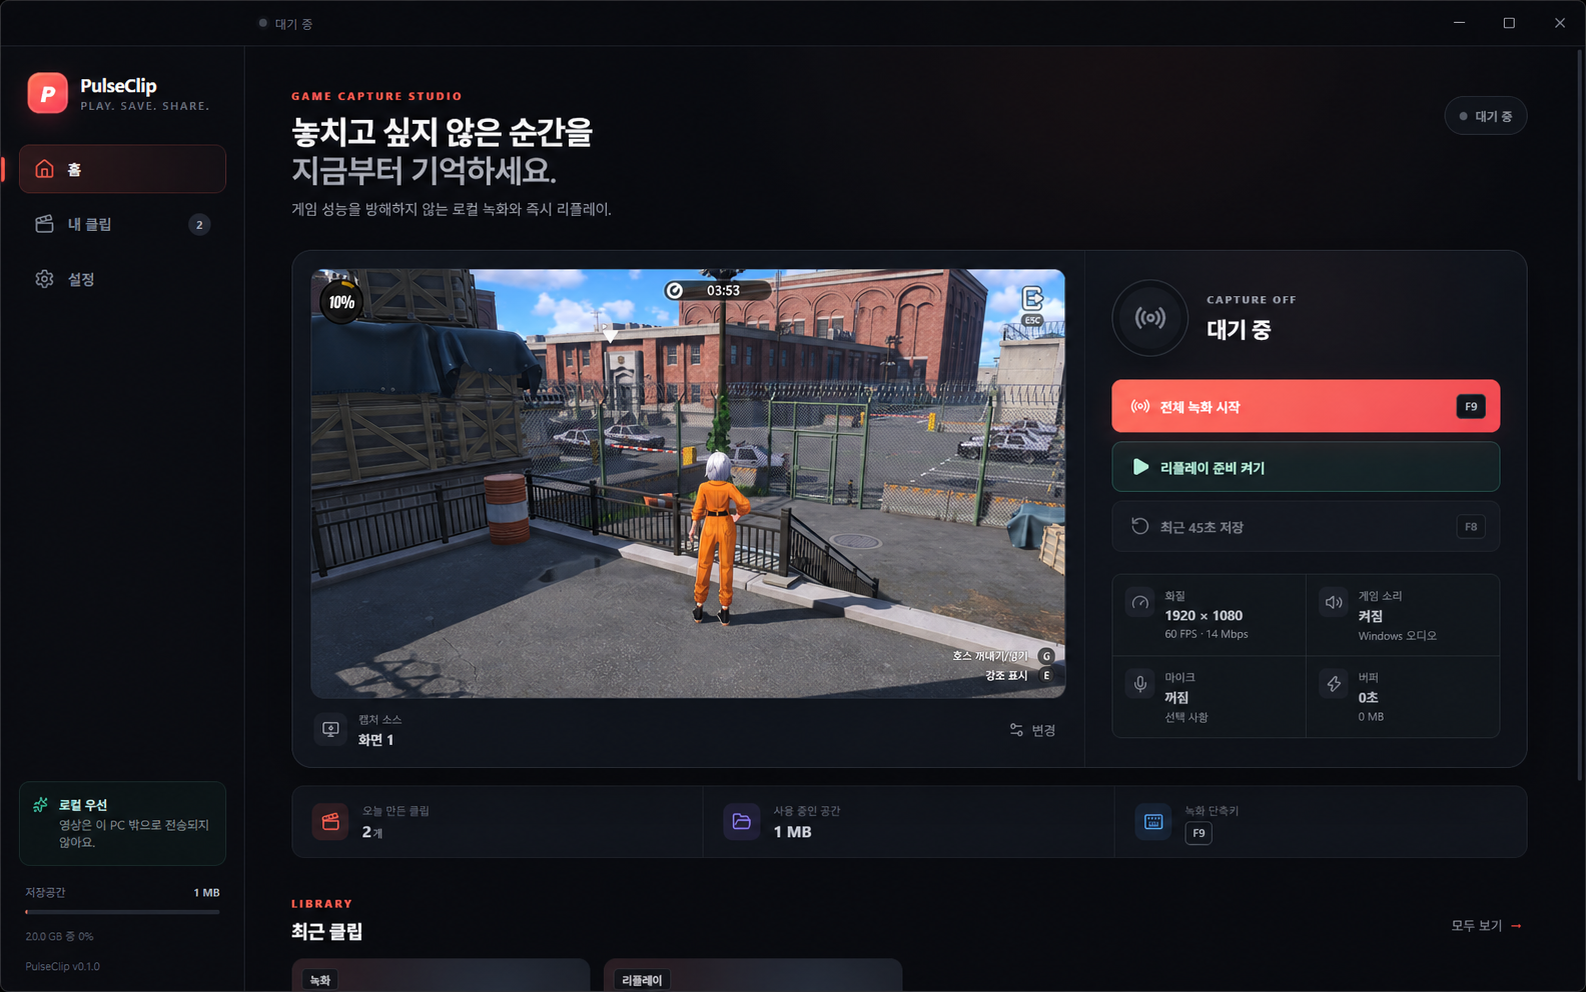
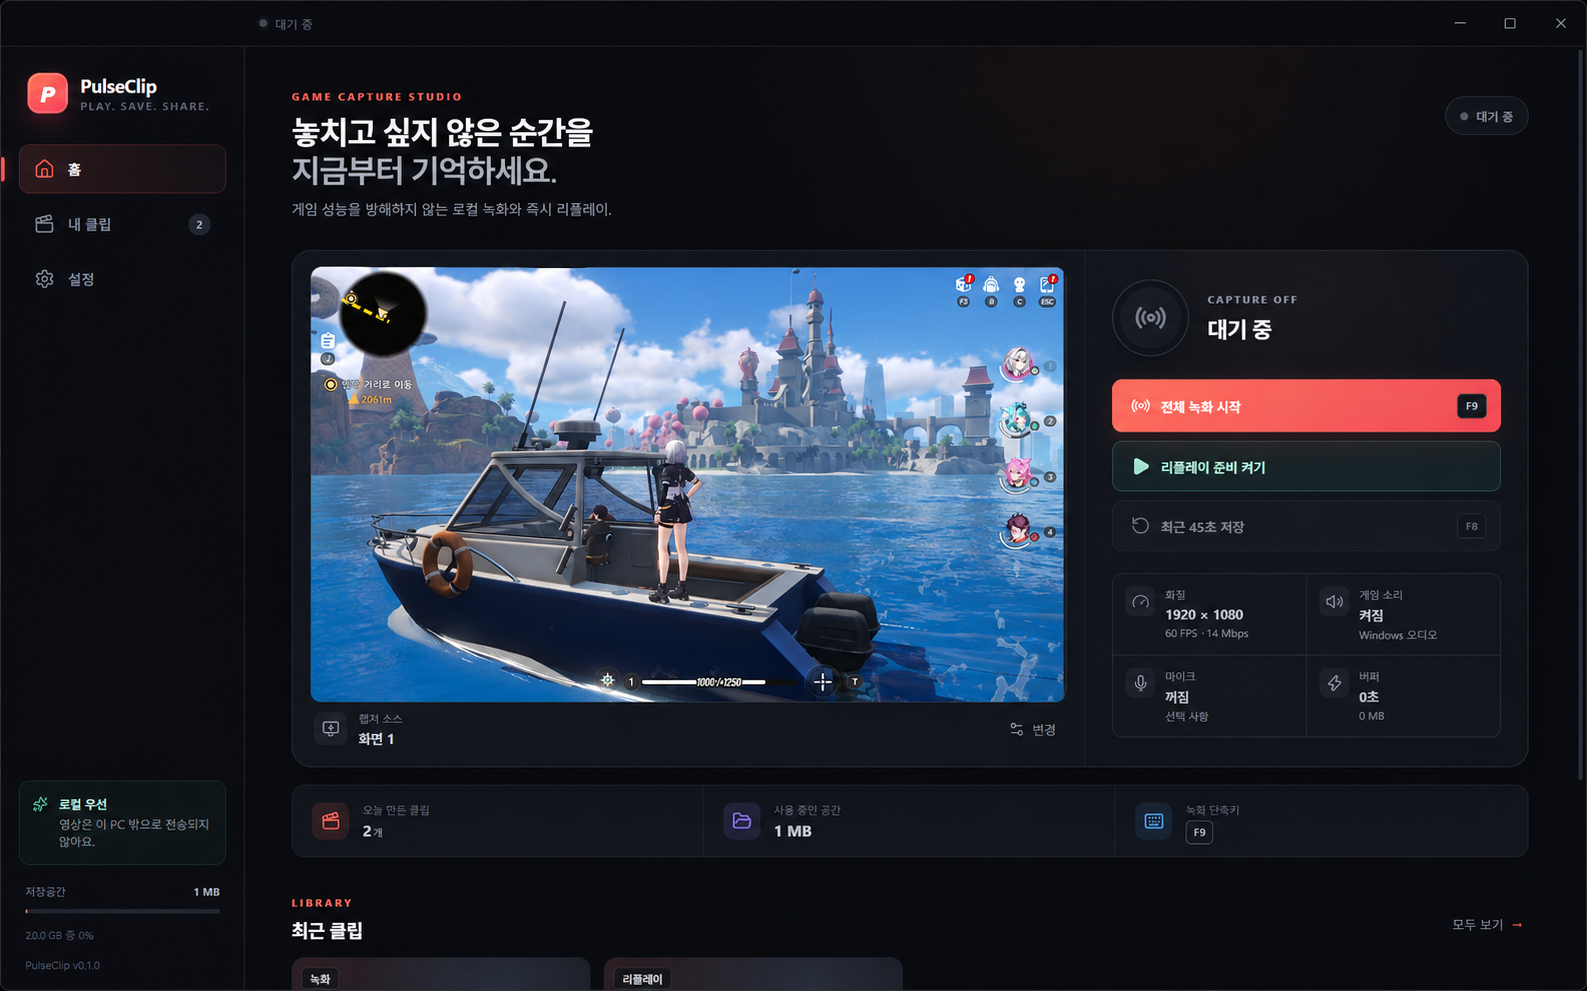
feat: showcase boat gameplay in landing preview

diff --git a/landing/src/App.jsx b/landing/src/App.jsx
@@ -236,7 +236,7 @@ function Hero() {
         <figure className="product-window">
           <img
             src={`${ASSET_BASE}pulseclip-app-home-nte.png`}
-            alt="NTE 게임 화면을 캡처 소스로 선택한 PulseClip 홈 화면. 전체 녹화, 리플레이 준비, 최근 45초 저장 기능을 보여줍니다."
+            alt="NTE의 보트 장면을 캡처 소스로 선택한 PulseClip 홈 화면. 전체 녹화, 리플레이 준비, 최근 45초 저장 기능을 보여줍니다."
             width="1442"
             height="901"
             fetchPriority="high"

diff --git a/README.md b/README.md
@@ -21,7 +21,7 @@
   </p>
 </div>
 
-![NTE 게임 화면을 캡처 소스로 선택한 PulseClip 홈 화면](landing/public/assets/pulseclip-app-home-nte.png)
+![NTE의 보트 장면을 캡처 소스로 선택한 PulseClip 홈 화면](landing/public/assets/pulseclip-app-home-nte.png)
 
 ## 프로젝트 소개
 
